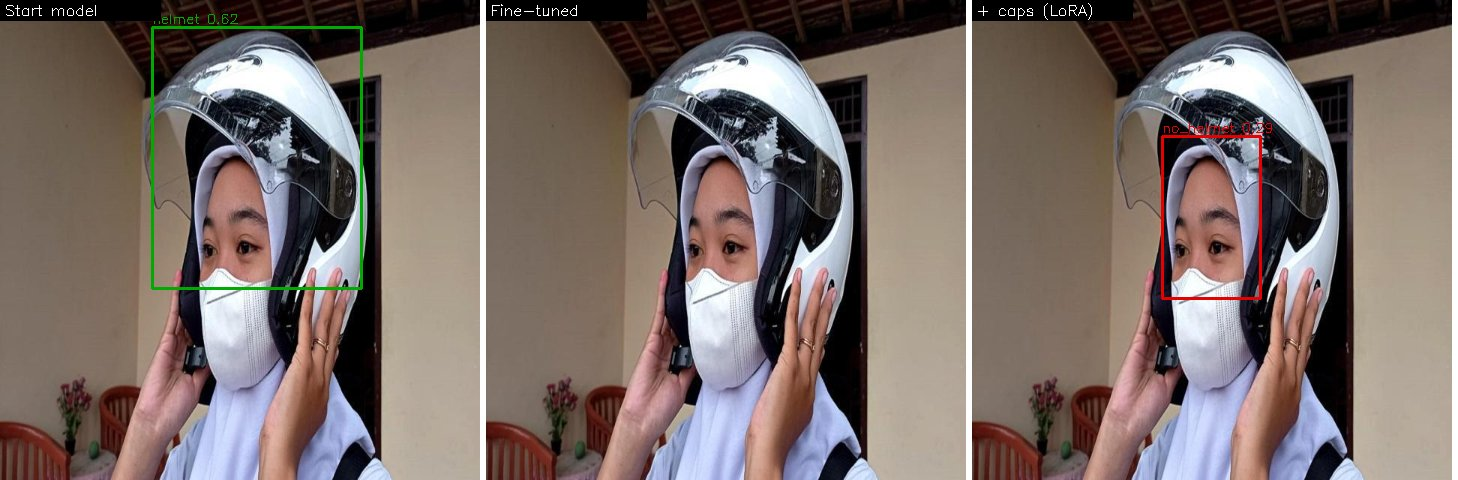
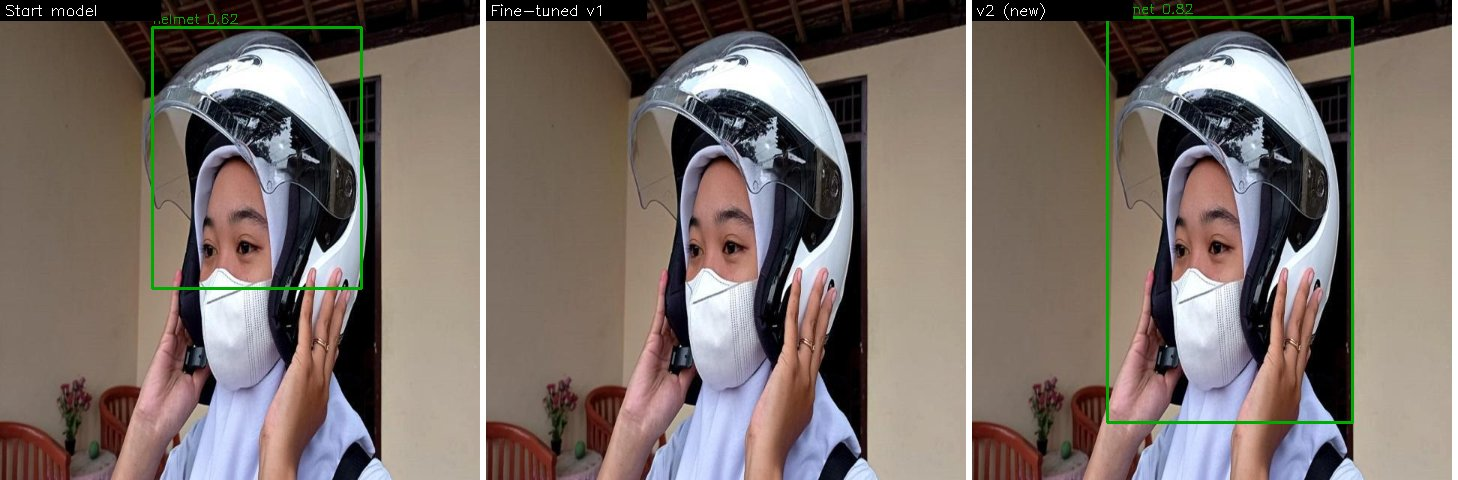
v2: stock Ultralytics fine-tune on DeBoniz + ours; rewrite README, benchmarks, all 13 examples

diff --git a/scripts/train_v2.py b/scripts/train_v2.py
@@ -1,0 +1,12 @@
+# Stock Ultralytics fine-tune of the start model. Library defaults; only data, model, time budget set.
+import glob, os, sys
+sys.path.insert(0,'/content')
+R='/content/data/deboniz'
+tr=[os.path.dirname(p) for p in glob.glob(f'{R}/**/train/images',recursive=True)]
+va=[os.path.dirname(p) for p in glob.glob(f'{R}/**/val/images',recursive=True)]
+print('STOCK dirs',tr,va,flush=True)
+open('/content/stock.yaml','w').write("path: /\ntrain:\n  - "+tr[0].lstrip('/')+"/../train/images\n  - content/ds/train/images\nval: "+va[0].lstrip('/')+"/../val/images\nnames:\n  0: helmet\n  1: no_helmet\n")
+from ultralytics import YOLO
+m=YOLO('/content/m/start.pt')
+m.train(data='/content/stock.yaml', time=float(os.environ.get('HOURS','0.5')), project='/content/runs', name='stock', exist_ok=True)
+print('STOCK_END',flush=True)

diff --git a/scripts/eval_v2.py b/scripts/eval_v2.py
@@ -1,0 +1,11 @@
+import json, os, sys
+sys.path.insert(0,'/content')
+from ultralytics import YOLO
+M=json.loads(os.environ['MODELS']); out={}
+for nm,p in M.items():
+    m=YOLO(p); m.model.names={0:'helmet',1:'no_helmet'}
+    for sp,y in (('deb_test','deb_only'),('our_test','test_only'),('our_dev','dev_only')):
+        r=m.val(data=f'/content/ds/{y}.yaml',conf=0.001,verbose=False,plots=False,workers=2)
+        b=r.box; out[f'{nm}|{sp}']=dict(map50=round(float(b.map50),3),map=round(float(b.map),3),P=[round(float(x),3) for x in b.p],R=[round(float(x),3) for x in b.r],ap50=[round(float(x),3) for x in b.ap50])
+        print('EV',nm,sp,json.dumps(out[f'{nm}|{sp}']),flush=True)
+json.dump(out,open('/content/eval_stock.json','w')); print('EV_END',flush=True)

diff --git a/README.md b/README.md
@@ -2,17 +2,33 @@
 
 A small object detector (YOLO26m) that draws a box around a person's head and says whether they are wearing a **helmet** (green) or **no helmet** (red).
 
-It started from the public model [`leeyunjai/yolo26-helmet`](https://huggingface.co/leeyunjai/yolo26-helmet) and was fine-tuned on riders from Indian and Southeast-Asian roads. This repo is the write-up: results, how it was trained, example outputs and the scripts. **The fine-tuned weights are on the [Releases page](https://github.com/GPA-N/helmet-detection-yolo26/releases/tag/v1.0)** (see [Weights](#weights) for the licence caveat).
+**Latest: v2.** It starts from the public model [`leeyunjai/yolo26-helmet`](https://huggingface.co/leeyunjai/yolo26-helmet) and is fine-tuned with the **plain Ultralytics trainer at its default settings**, no custom training code. Weights are on the [v2.0 release](https://github.com/GPA-N/helmet-detection-yolo26/releases/tag/v2.0).
+
+## Results at a glance
+
+mAP50 (higher is better, 1.0 is perfect):
+
+| Test set | Start model | Fine-tuned v1 | **v2 (new)** |
+|---|---|---|---|
+| DeBoniz test (643 images) | 0.616 | 0.554 | **0.970** |
+| Our test (48 images) | 0.867 | **0.965** | 0.947 |
+| Our dev (147 images) | 0.252 | **0.771** | 0.701 |
+
+v2 is far better on the large DeBoniz test set. It is slightly behind v1 on our two small sets, which use our own labelling style. See [what these numbers do and do not show](#read-these-numbers-carefully).
 
 ## Example outputs
 
-Each row shows the same photo through three models: the start model, our fine-tuned v1 and v1 + caps (LoRA). Green = helmet, red = no_helmet.
-
-We took 13 evenly spaced images (every 50th) from the DeBoniz test split (licence CC-BY-4.0) and show 7 of them. We left out 2 where no model drew any box and 4 that were near-repeats (screenshots with overlay text) or tiny street scenes. Most of that split is close-ups and product photos, not street scenes, so it is a harsh test. It also shows the weak spots of the newest model, which sometimes calls a helmeted close-up "no_helmet" (rows 1, 3, 5 and 6).
+Each row is the same photo through the start model, v1 and v2 (confidence 0.25). Green = helmet, red = no_helmet. These are **all 13 images** from taking every 50th image of the DeBoniz test split (licence CC-BY-4.0), nothing skipped. Many are close-ups and product photos, not street scenes.
 
 ![example 01](images/example_01.jpg)
 
+![example 02](images/example_02.jpg)
+
+![example 03](images/example_03.jpg)
+
 ![example 04](images/example_04.jpg)
+
+![example 05](images/example_05.jpg)
 
 ![example 06](images/example_06.jpg)
 
@@ -22,135 +38,133 @@ We took 13 evenly spaced images (every 50th) from the DeBoniz test split (licenc
 
 ![example 09](images/example_09.jpg)
 
+![example 10](images/example_10.jpg)
+
+![example 11](images/example_11.jpg)
+
+![example 12](images/example_12.jpg)
+
 ![example 13](images/example_13.jpg)
 
-## The models compared
+## The models
 
 | Name | What it is |
 |---|---|
-| Base YOLO26m (COCO) | The general-purpose pretrained YOLO26m. It knows 80 everyday object types and has **no helmet class**, so it cannot do this task and has no score here. |
-| Start model | `helmet-26m` from `leeyunjai/yolo26-helmet`. The one we started from. |
-| Fine-tuned v1 | Start model, all weights fine-tuned for 40 epochs on our rider data. |
-| v1 + caps (full fine-tune) | v1, fine-tuned again with photos of people in caps, hats and headscarves labelled no_helmet. Changes every weight. |
-| v1 + caps (LoRA) | Same extra photos, but only small add-on layers are trained, so the original weights stay put. Also mixes in the old model's own predictions so it does not forget. **Experimental, not recommended as the default:** it over-calls no_helmet on helmeted close-ups (see the examples). A fixed version is being trained. |
+| Start model | `helmet-26m` from `leeyunjai/yolo26-helmet`. Where everything starts. |
+| Fine-tuned v1 | Start model, all weights trained 40 epochs on our own 868 rider images. |
+| **v2 (new)** | Start model, all weights trained with default Ultralytics settings on the 16,384-image DeBoniz training set plus our 868 images, for a 30-minute budget (3 epochs). |
+
+Earlier experiments ("v1 + caps", full and LoRA) are no longer recommended: on held-out DeBoniz photos of helmets worn on heads they called the helmet correctly less often than the start model (see below). Their files stay on the [v1.0 release](https://github.com/GPA-N/helmet-detection-yolo26/releases/tag/v1.0).
 
 ## Benchmarks
 
-All numbers are on our own splits (below). **Precision (P)** = of the boxes drawn, how many were right. **Recall (R)** = of the real heads, how many were found. **AP50 / AP50-95** = how good the boxes and their confidence are (higher is better, 1.0 is perfect). **mAP** = the average over the two classes. P and R are at the confidence level that gives the best balance (Ultralytics' standard report).
+**P** = of the boxes drawn, how many were right. **R** = of the real heads, how many were found. **AP50** = box quality and confidence ranking at IoU 0.5. P and R are at the confidence with the best balance (Ultralytics' standard report). mAP50 / mAP50-95:
 
-### Overall (mAP50 / mAP50-95)
-
-> **Do not read this table as proof that the fine-tuned models are better.** Test, Dev and Train are scored against **our own labelling style**. The start model was labelled differently (different box shapes), so its low Dev/Train scores mean it disagrees with our labels, not that it is bad. The Train row is data the fine-tuned models were trained on, so it is not a test at all. The Test set is only 48 images, mostly from one source. A fairer comparison on a different, untouched dataset is in the next section (when present).
-
-| Split | Start model (`helmet-26m`) | Fine-tuned v1 | v1 + caps (full fine-tune) | v1 + caps (LoRA) |
-|---|---|---|---|---|
-| Test (48 images) | 0.867 / 0.588 | 0.965 / 0.692 | 0.973 / 0.695 | 0.956 / 0.690 |
-| Dev (147 images) | 0.252 / 0.072 | 0.771 / 0.318 | 0.756 / 0.308 | 0.790 / 0.324 |
-| Train (868 images; the models were trained on these, **not a test**) | 0.253 / 0.087 | 0.977 / 0.624 | 0.977 / 0.623 | 0.970 / 0.616 |
-
-### Test set, per class
-
-| Model | Class | P | R | AP50 | AP50-95 |
-|---|---|---|---|---|---|
-| Start model (`helmet-26m`) | helmet | 0.942 | 0.640 | 0.846 | 0.553 |
-|  | no_helmet | 0.727 | 0.880 | 0.889 | 0.624 |
-| Fine-tuned v1 | helmet | 0.949 | 0.960 | 0.979 | 0.741 |
-|  | no_helmet | 0.952 | 0.900 | 0.951 | 0.643 |
-| v1 + caps (full fine-tune) | helmet | 0.986 | 0.920 | 0.980 | 0.749 |
-|  | no_helmet | 0.956 | 0.878 | 0.966 | 0.642 |
-| v1 + caps (LoRA) | helmet | 1.000 | 0.872 | 0.982 | 0.736 |
-|  | no_helmet | 0.897 | 0.880 | 0.929 | 0.644 |
-
-### Dev set, per class
-
-| Model | Class | P | R | AP50 | AP50-95 |
-|---|---|---|---|---|---|
-| Start model (`helmet-26m`) | helmet | 0.528 | 0.222 | 0.232 | 0.078 |
-|  | no_helmet | 0.180 | 0.477 | 0.271 | 0.067 |
-| Fine-tuned v1 | helmet | 0.834 | 0.800 | 0.870 | 0.392 |
-|  | no_helmet | 0.743 | 0.570 | 0.673 | 0.243 |
-| v1 + caps (full fine-tune) | helmet | 0.838 | 0.808 | 0.862 | 0.386 |
-|  | no_helmet | 0.743 | 0.586 | 0.649 | 0.229 |
-| v1 + caps (LoRA) | helmet | 0.826 | 0.802 | 0.872 | 0.393 |
-|  | no_helmet | 0.716 | 0.625 | 0.707 | 0.254 |
-
-### People in caps and hats, and forgetting
-
-120 held-out photos from the DeBoniz dataset where the person wears a cap, hat or headscarf (correct answer: no_helmet). The last column is how much of v1's old behaviour is kept: the share of v1's confident detections on 200 unlabelled street photos that the model still reproduces (1.0 = nothing forgotten).
-
-| Model | Called no_helmet (correct) | Called helmet (wrong) | Old behaviour kept |
+| Split | Start model | Fine-tuned v1 | v2 (new) |
 |---|---|---|---|
-| Start model (`helmet-26m`) | 71% | 28% | 0.63 |
-| Fine-tuned v1 | 38% | 38% | 1.000 |
-| v1 + caps (full fine-tune) | 95% | 4% | 0.935 |
-| v1 + caps (LoRA) | 93% | 4% | 0.944 |
+| DeBoniz test (643 images) | 0.616 / 0.319 | 0.554 / 0.297 | **0.970 / 0.706** |
+| Our test (48 images) | 0.867 / 0.588 | **0.965 / 0.692** | 0.947 / 0.542 |
+| Our dev (147 images) | 0.252 / 0.072 | **0.771 / 0.318** | 0.701 / 0.289 |
 
-(Start-model "old behaviour kept" is measured the same way against v1.)
+### DeBoniz test, per class
+
+| Model | Class | P | R | AP50 |
+|---|---|---|---|---|
+| Start model | helmet | 0.726 | 0.414 | 0.479 |
+|  | no_helmet | 0.640 | 0.773 | 0.752 |
+| Fine-tuned v1 | helmet | 0.561 | 0.509 | 0.542 |
+|  | no_helmet | 0.925 | 0.425 | 0.567 |
+| **v2 (new)** | helmet | 0.941 | 0.940 | 0.981 |
+|  | no_helmet | 0.948 | 0.936 | 0.959 |
+
+### Our test, per class
+
+| Model | Class | P | R | AP50 |
+|---|---|---|---|---|
+| Start model | helmet | 0.942 | 0.640 | 0.846 |
+|  | no_helmet | 0.727 | 0.880 | 0.889 |
+| Fine-tuned v1 | helmet | 0.949 | 0.960 | 0.979 |
+|  | no_helmet | 0.952 | 0.900 | 0.951 |
+| **v2 (new)** | helmet | 0.960 | 0.880 | 0.937 |
+|  | no_helmet | 0.887 | 0.946 | 0.957 |
+
+### Our dev, per class
+
+| Model | Class | P | R | AP50 |
+|---|---|---|---|---|
+| Start model | helmet | 0.528 | 0.222 | 0.232 |
+|  | no_helmet | 0.180 | 0.477 | 0.271 |
+| Fine-tuned v1 | helmet | 0.834 | 0.800 | 0.870 |
+|  | no_helmet | 0.743 | 0.570 | 0.673 |
+| **v2 (new)** | helmet | 0.755 | 0.763 | 0.796 |
+|  | no_helmet | 0.596 | 0.641 | 0.606 |
+
+### Helmets worn on heads (DeBoniz val+test)
+
+584 held-out images with only helmet boxes, where CLIP says the helmet is on a person's head (682 boxes). Share of those boxes each model labels correctly as helmet at confidence 0.25. v2 was not measured on this set.
+
+| Model | Called helmet (correct) | Called no_helmet (wrong) | Missed |
+|---|---|---|---|
+| Start model | 65% | 11% | 24% |
+| Fine-tuned v1 | 60% | 1% | 39% |
+| v1 + caps (full fine-tune) | 41% | 36% | 23% |
+| v1 + caps (LoRA) | 35% | 38% | 27% |
 
 ### Read these numbers carefully
 
-- **The test set is tiny**: 48 images, 25 helmet and 50 no_helmet boxes. Differences of about 0.01 (for example 0.965 vs 0.973) are noise. Treat the test numbers as a rough guide only. They were also looked at several times while making choices.
-- **The dev set has incomplete labels.** On v1, only 10 of 466 labelled heads got the wrong class. 78 had no detection at all (mostly tiny or blurry heads), and 79 detections sat where there is no label at all. Of 32 of those we looked at, most were real heads or helmets that the labels simply do not mark. So dev scores of 0.6 to 0.8 are partly the labels' fault, not only the model's.
-- **Train vs dev gap.** v1 scores 0.977 on training images, 0.771 on dev and 0.965 on test. Some of that train-to-dev gap is overfitting to the training photos and some is the label problem above. We have not separated the two.
-- **The cap photos come from the same source** as the extra training photos, so the 93-95% is optimistic for photos from elsewhere.
-- **The start model scores low on train and dev** (0.25) partly because it draws its boxes differently from our labels, and then well on the test set (0.867), whose labelling style it matches better.
-- **Trade-off, not a free win.** The caps versions fix most cap/hat mistakes, but the LoRA one loses some helmet recall (test helmet recall 0.960 to 0.872) and over-calls no_helmet on helmeted close-ups. The full fine-tune forgets more of v1's behaviour (0.935 kept vs 0.944).
+- **The DeBoniz test set is held-out images, but v2 trained on the same dataset's training split.** Pictures from one source tend to resemble each other, and we did not check for near-duplicates between its train and test splits. Expect lower scores on photos from elsewhere. The start model and v1 never trained on it, so the comparison favours v2.
+- **v2 is slightly behind v1 on our own splits** (test mAP50 0.947 vs 0.965, dev 0.701 vs 0.771), and its boxes match our labelling less tightly (test mAP50-95 0.542 vs 0.692). v1 was trained on that labelling style, v2 mostly was not.
+- **Our test set is tiny** (48 images). Differences of about 0.02 are noise. Our dev set has incomplete labels, so its absolute numbers are low for every model.
+- **Known failures on real street photos.** On one informal street photo, v2 missed a rider in a headscarf with headphones and called a bareheaded rider "helmet" at low confidence (0.32). Headscarf and cap cases need more training data. v2 only trained for 3 epochs.
+- **No photos from web searches are shown here**; we do not own them.
 
 ## How it was trained
 
 Everything ran on a free Google Colab T4 GPU.
 
-1. **Data.** Two public rider datasets, converted to head-level boxes with two classes (`helmet`, `no_helmet`); number-plate and whole-rider boxes were dropped. 868 training images (2,121 helmet and 899 no_helmet boxes), 147 dev images, 48 test images and 400 unlabelled street photos used only to check forgetting. Images were grouped into clusters of near-identical pictures and split by cluster, so no near-duplicate sits on both sides of a split.
-2. **Fine-tuned v1.** Start model, **all weights** trained for 40 epochs with Ultralytics' default settings (640 px images, batch 16, automatic AdamW).
-3. **Finding caps and hats.** None of our data labels caps, hats or headscarves as such, so we used OpenAI's CLIP (zero-shot: "a person wearing a baseball cap", and so on) to pick them out of the no_helmet boxes of the DeBoniz dataset. Picks were checked by eye on photo grids (mostly correct, some bare faces slip in). Those images all keep the label no_helmet.
-4. **Caps, full fine-tune.** v1 trained 15 more epochs on our images plus 400 cap images. Changes every weight.
-5. **Caps, LoRA.** The original weights and normalisation layers are frozen. Small rank-8 add-on layers (4.3% extra parameters) are put on 122 convolution layers and trained for 15 epochs on our images, 900 cap images and 200 "replay" photos labelled by v1 itself (so the model keeps doing what it used to). The add-ons are then folded back into an ordinary model with no change to its shape.
+1. **v1.** Start model, all weights, 40 epochs on our 868 rider images (Ultralytics defaults: 640 px, batch 16, automatic optimizer).
+2. **v2.** `YOLO('helmet-26m.pt').train(data=..., time=0.5)`, nothing else changed. Training data = DeBoniz train (16,384 images, 2 classes: helmet / no_helmet) + our 868 train images. `time=0.5` is Ultralytics' own time budget in hours; it ran 3 epochs. Validation during training used the DeBoniz val split. The final `last.pt` is the released model.
+
+The recipe is [`scripts/train_v2.py`](scripts/train_v2.py) and the evaluation is [`scripts/eval_v2.py`](scripts/eval_v2.py).
 
 ## What did not work
 
-Before fine-tuning again, we tried to fix the cap mistake by **editing a handful of weights directly without any training** ("weight-space programming"). Four different kinds of edit, each checked against random edits of the same size, were no better than chance or cost accuracy elsewhere. The model's features for a cap and a helmet are too similar for a few-weight edit to separate them, so we fine-tuned instead.
+- **Editing a few weights without training** ("weight-space programming") to fix cap/hat mistakes: four kinds of edit, each no better than random edits of the same size.
+- **Our own LoRA and replay fine-tunes** ("v1 + caps"): they fixed some cap photos but made helmets worse on held-out DeBoniz images (table above), and over-called no_helmet on helmeted close-ups. We stopped using them.
+- **Blending a share of the start model back in** (weight interpolation, as suggested in [arXiv 2609.36426](https://arxiv.org/abs/2609.36426)) helped those models a little but did not bring them back to the start model.
 
 ## Data and credits
 
 | Source | Used for | Licence (as listed by the host) |
 |---|---|---|
-| [aneesarom/rider-with-helmet-without-helmet-number-plate](https://www.kaggle.com/datasets/aneesarom/rider-with-helmet-without-helmet-number-plate) (Kaggle) | train, test | Apache-2.0 |
-| [aryanvaid13/indian-helmet-detection-dataset](https://www.kaggle.com/datasets/aryanvaid13/indian-helmet-detection-dataset) (Kaggle) | train, dev | "unknown" on Kaggle |
-| devgurucodes/trafffic-violations-triple-riding-no-helmet-plate, pkdarabi/helmet (Kaggle) | unlabelled street photos for the forgetting check only | see each page |
-| [DeBoniz/helmet-detection-dataset](https://huggingface.co/datasets/DeBoniz/helmet-detection-dataset) (Hugging Face) | cap/hat photos for training; held-out cap test; example images | CC-BY-4.0 |
+| [DeBoniz/helmet-detection-dataset](https://huggingface.co/datasets/DeBoniz/helmet-detection-dataset) (Hugging Face) | v2 training, DeBoniz test, example images | CC-BY-4.0 |
+| [aneesarom/rider-with-helmet-without-helmet-number-plate](https://www.kaggle.com/datasets/aneesarom/rider-with-helmet-without-helmet-number-plate) (Kaggle) | our train, test | Apache-2.0 |
+| [aryanvaid13/indian-helmet-detection-dataset](https://www.kaggle.com/datasets/aryanvaid13/indian-helmet-detection-dataset) (Kaggle) | our train, dev | "unknown" on Kaggle |
 | [leeyunjai/yolo26-helmet](https://huggingface.co/leeyunjai/yolo26-helmet) | start model | none stated |
-| [openai/clip-vit-base-patch32](https://huggingface.co/openai/clip-vit-base-patch32) | finding caps and hats | MIT |
+| [openai/clip-vit-base-patch32](https://huggingface.co/openai/clip-vit-base-patch32) | finding head-worn helmets in the analysis above | MIT |
 
 Built with [Ultralytics YOLO](https://github.com/ultralytics/ultralytics) (AGPL-3.0). Check each dataset's terms before reusing its images.
 
 ## Weights
 
-Download from the [v1.0 release](https://github.com/GPA-N/helmet-detection-yolo26/releases/tag/v1.0). Each file is a normal Ultralytics model (`YOLO('file.pt')`); class 0 = helmet, class 1 = no_helmet.
+[v2.0 release](https://github.com/GPA-N/helmet-detection-yolo26/releases/tag/v2.0): `helmet-v2.pt`, a normal Ultralytics model (`YOLO('helmet-v2.pt')`); class 0 = helmet, class 1 = no_helmet. Older models are on [v1.0](https://github.com/GPA-N/helmet-detection-yolo26/releases/tag/v1.0).
 
-| File | Model |
-|---|---|
-| `helmet-v1-finetune.pt` | Fine-tuned v1 |
-| `helmet-v1-caps-full.pt` | v1 + caps (full fine-tune) |
-| `helmet-v1-caps-lora.pt` | v1 + caps (LoRA). **Experimental: misses helmets on close-ups. Prefer the other two for now.** |
-
-**Licence caveat:** these were fine-tuned from `leeyunjai/yolo26-helmet`, which states no licence, and Ultralytics code is AGPL-3.0. The weights are shared as-is, with no warranty, and may be taken down if the start model's author objects. The start model itself is not included: get it from its Hugging Face page.
+**Licence caveat:** fine-tuned from `leeyunjai/yolo26-helmet` (no licence stated) with AGPL-3.0 Ultralytics code. Weights are shared as-is, with no warranty, and may be taken down if the start model's author objects. The start model itself is not included.
 
 ## Not included
-- **Datasets and the source images behind the numbers.** Download them from the links above.
-- **Photos from web searches** that were used for informal spot checks. We do not own them.
+- Datasets and the source images behind the numbers. Download them from the links above.
 
 ## Scripts and raw results
 
 | File | What it does |
 |---|---|
-| [`benchmarks.json`](benchmarks.json) | Every number in the tables above |
-| [`scripts/build_dataset.py`](scripts/build_dataset.py) | Builds the train/dev/test/unlabelled splits |
-| [`scripts/lora_exp.py`](scripts/lora_exp.py) | CLIP cap mining, LoRA training, merging and evaluation |
-| [`scripts/bench_gh.py`](scripts/bench_gh.py) | The benchmark behind the tables |
-| [`scripts/render_gh.py`](scripts/render_gh.py) | Draws the example images |
-| [`scripts/kit.py`](scripts/kit.py), [`scripts/setup_all.py`](scripts/setup_all.py) | Helpers and Colab setup |
+| [`benchmarks_v2.json`](benchmarks_v2.json) | Every v2 number above |
+| [`benchmarks.json`](benchmarks.json) | Older benchmark of v1 and the "caps" models |
+| [`scripts/train_v2.py`](scripts/train_v2.py), [`scripts/eval_v2.py`](scripts/eval_v2.py) | v2 training and evaluation |
+| [`scripts/build_dataset.py`](scripts/build_dataset.py), [`scripts/kit.py`](scripts/kit.py), [`scripts/setup_all.py`](scripts/setup_all.py) | Our train/dev/test splits and Colab setup |
+| [`scripts/lora_exp.py`](scripts/lora_exp.py), [`scripts/bench_gh.py`](scripts/bench_gh.py), [`scripts/render_gh.py`](scripts/render_gh.py) | Earlier LoRA/caps experiments and the old examples |
 
-The scripts were written for Colab (paths start with `/content`). They are provided as a record, not a polished package.
+Scripts were written for Colab (paths start with `/content`). They are a record, not a polished package.
 
 ## Licence
 
